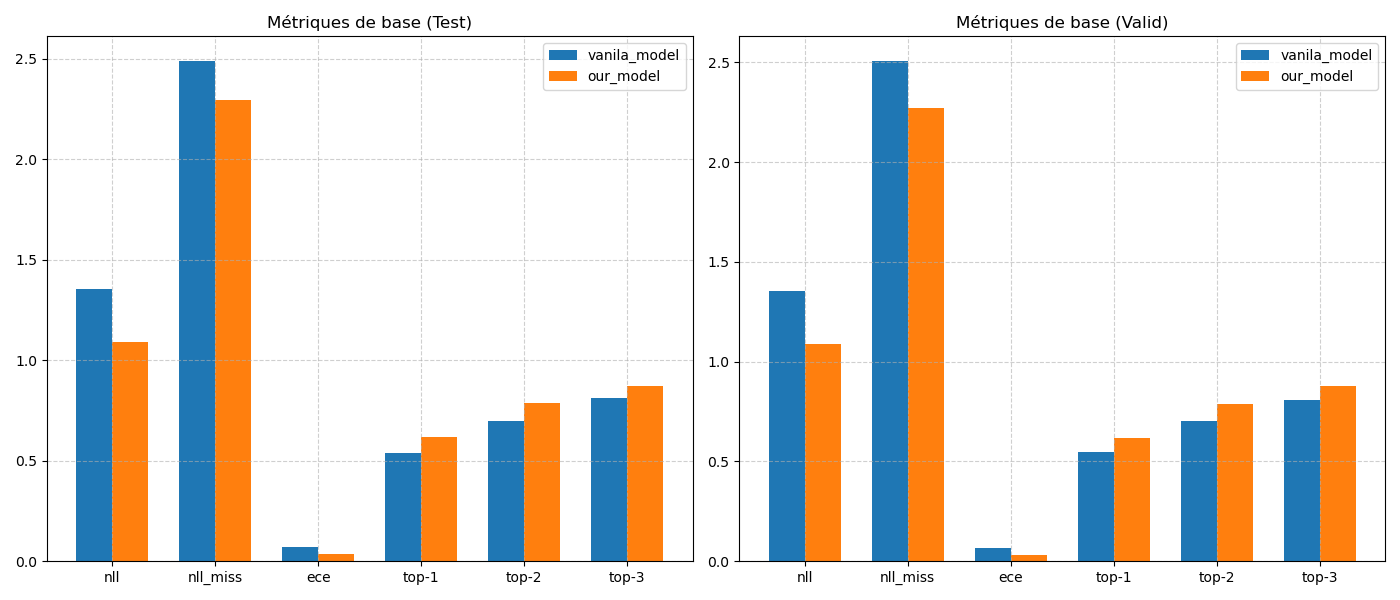
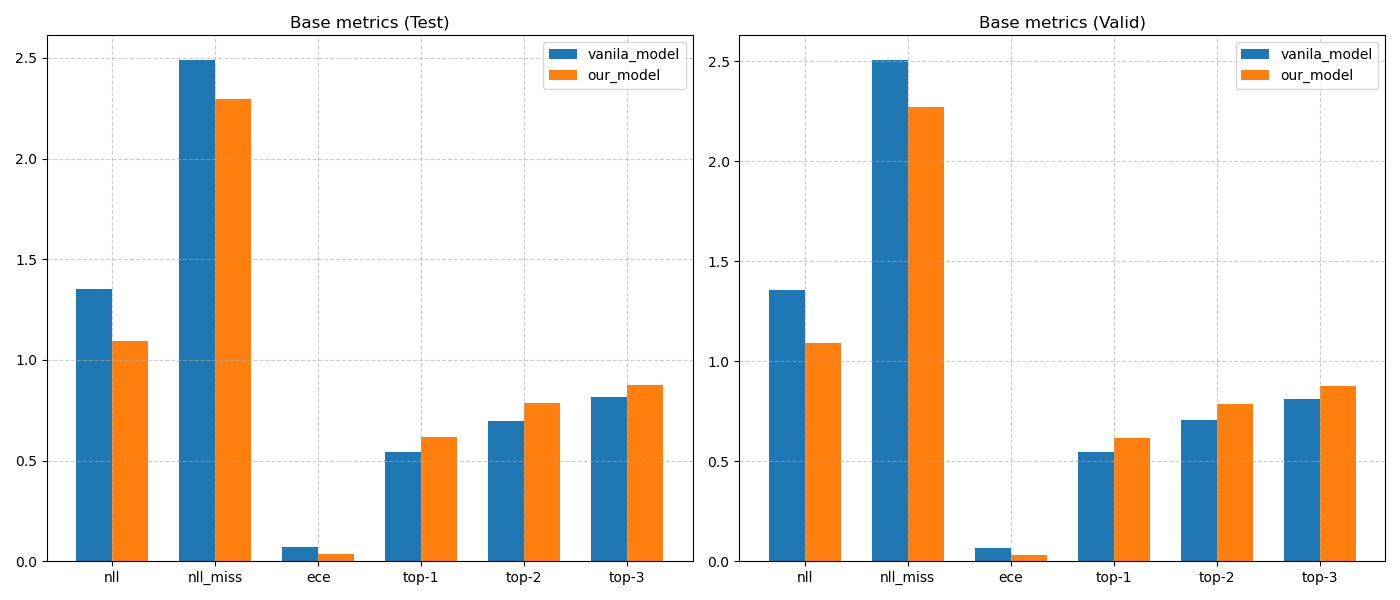
updated plots

diff --git a/plot.py b/plot.py
@@ -44,7 +44,7 @@ def main():
         ax.bar(index - bar_width/2, values_run_basic, bar_width, label='vanila_model')
         ax.bar(index + bar_width/2, values_run_001, bar_width, label='our_model')
         
-        ax.set_title(f"Métriques de base ({cond.capitalize()})")
+        ax.set_title(f"Base metrics ({cond.capitalize()})")
         ax.set_xticks(index)
         ax.set_xticklabels(metrics)
         ax.legend()
@@ -74,7 +74,7 @@ def main():
         ax.bar(index - bar_width/2, means_basic, bar_width, yerr=stds_basic, capsize=5, label='vanila_model')
         ax.bar(index + bar_width/2, means_001, bar_width, yerr=stds_001, capsize=5, label='our_model')
         
-        ax.set_title(f"Entropie prédictive ({cond.capitalize()})")
+        ax.set_title(f"Predictive entropy ({cond.capitalize()})")
         ax.set_xticks(index)
         ax.set_xticklabels(entropy_types)
         ax.legend()
